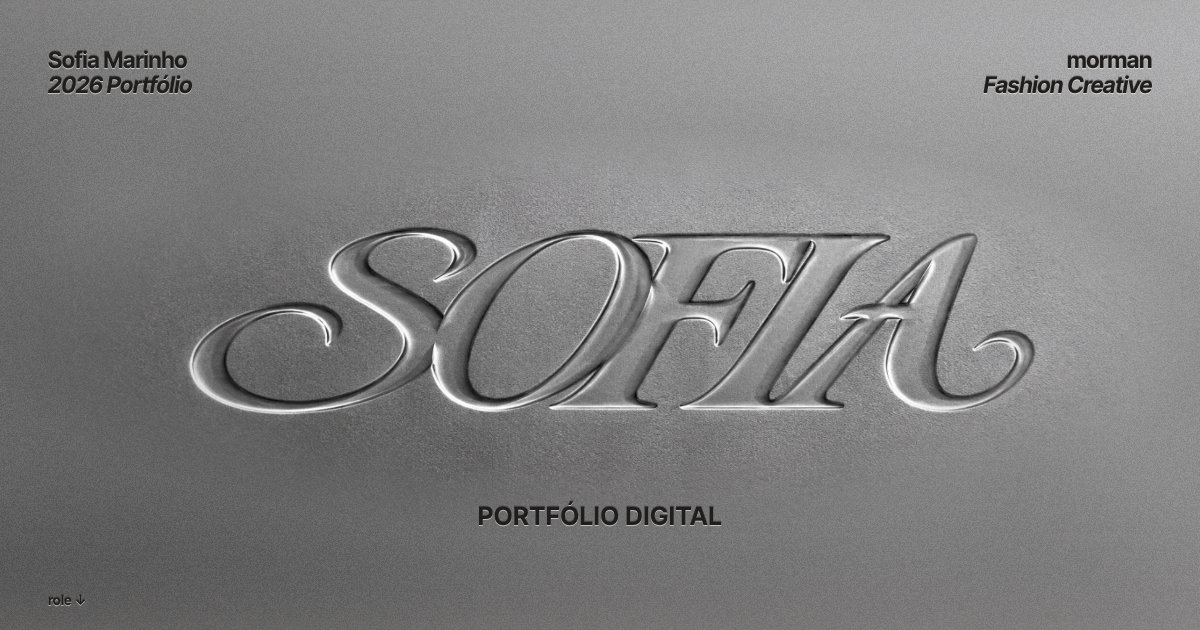
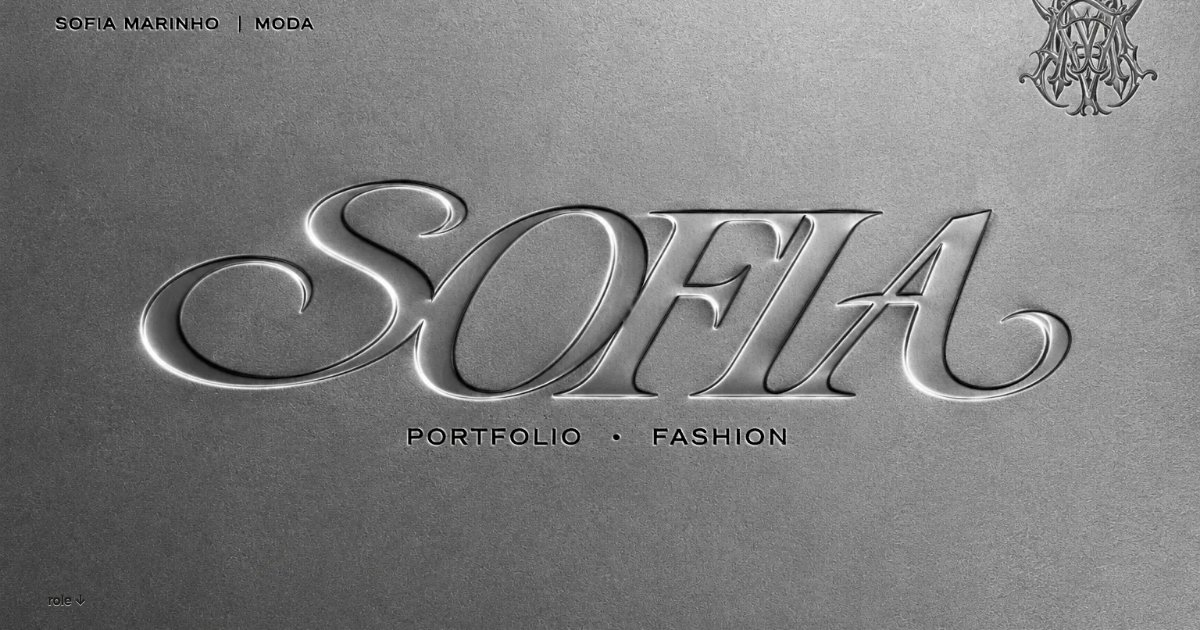
Portfólio: capa com a arte completa (SOFIA, monograma e textos), textos pequenos mais legíveis
Claude-Session: https://claude.ai/code/session_01TwcUAkcdnNUaJGVqTisuvo

diff --git a/portfolio/style.css b/portfolio/style.css
@@ -234,3 +234,12 @@ button { font: inherit; color: inherit; }
   -webkit-mask-image: radial-gradient(ellipse 50% 50% at 50% 50%, #000 62%, transparent 100%);
           mask-image: radial-gradient(ellipse 50% 50% at 50% 50%, #000 62%, transparent 100%); }
 @media (max-width: 700px) { .plate__word { width: 128%; margin-left: -14%; } }
+
+/* capa: imagem inteira; em telas deitadas cobre a tela, em pé aparece inteira sobre a placa desfocada */
+.plate__full { position: absolute; z-index: 1; left: 50%; top: 50%; transform: translate(-50%, -50%);
+  width: max(100vw, 150svh); max-width: none; height: auto; }
+@media (max-aspect-ratio: 5/4) {
+  .plate__full { width: 100vw;
+    -webkit-mask-image: linear-gradient(transparent, #000 14%, #000 86%, transparent);
+            mask-image: linear-gradient(transparent, #000 14%, #000 86%, transparent); }
+}

diff --git a/portfolio/index.html b/portfolio/index.html
@@ -36,13 +36,8 @@
   <!-- CAPA: placa de metal gravada -->
   <section id="inicio" class="plate">
     <canvas class="plate__metal" aria-hidden="true"></canvas>
-    <p class="plate__corner plate__corner--l emb">Sofia Marinho<i>2026 Portfólio</i></p>
-    <p class="plate__corner plate__corner--r emb">morman<i>Fashion Creative</i></p>
     <h1 class="sr-only">Sofia Marinho — portfólio de moda</h1>
-    <div class="plate__mark">
-    <img class="plate__word" src="media/capa-sofia.webp" alt="" decoding="async" fetchpriority="high">
-    <p class="plate__sub emb" aria-hidden="true">Portfólio Digital</p>
-    </div>
+    <img class="plate__full" src="media/capa.webp" alt="" decoding="async" fetchpriority="high">
     <a class="plate__down emb" href="#projetos">role ↓</a>
   </section>
 

diff --git a/portfolio/app.js b/portfolio/app.js
@@ -39,7 +39,7 @@
   /* ================= CAPA: placa de metal ================= */
   /* placa: a própria imagem da capa, ampliada e desfocada, cobre a tela toda;
      a imagem nítida fica por cima com as bordas esmaecidas, sem emenda */
-  var plateImg = new Image(); plateImg.src = "media/capa-sofia.webp";
+  var plateImg = new Image(); plateImg.src = "media/capa.webp";
   function drawMetal(cv) {
     var W = cv.clientWidth, H = cv.clientHeight; if (!W || !H) return;
     if (!plateImg.complete || !plateImg.naturalWidth) { plateImg.onload = function () { drawMetal(cv); }; return; }
